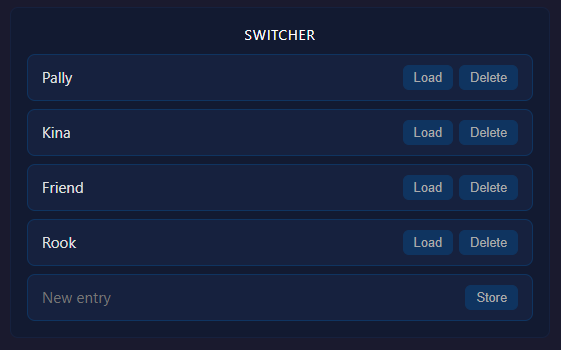
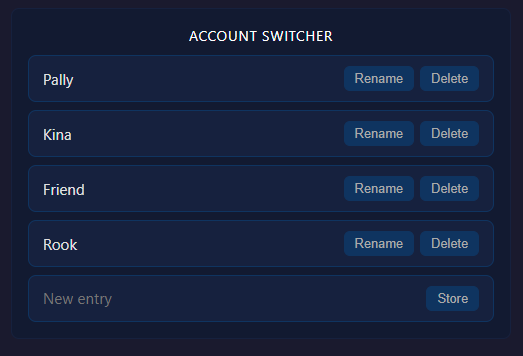
Account Switcher: UX improvements (bigger "load" area, remove confusing rename logic).

diff --git a/server/static/main.js b/server/static/main.js
@@ -163,21 +163,21 @@ const acc = {
             entryEl.setAttribute('data-id', id);
             entryEl.setAttribute('data-name', name);
 
-            const nameEl = document.createElement('input');
+            const nameEl = document.createElement('span');
             entryEl.appendChild(nameEl);
             nameEl.classList.add('acc-name');
-            nameEl.setAttribute('name', 'name');
-            nameEl.setAttribute('readonly', true);
-            nameEl.setAttribute('value', name);
-            nameEl.setAttribute('placeholder', name);
-            nameEl.addEventListener('dblclick', acc.hdlRenameStart);
-            nameEl.addEventListener('focusout', acc.hdlRenameDone);
+            nameEl.textContent = name;
 
-            const loadEl = document.createElement('button');
-            entryEl.appendChild(loadEl);
-            loadEl.textContent = 'Load';
-            loadEl.classList.add('btn', 'acc-btn');
-            loadEl.addEventListener('click', acc.hdlLoad);
+            entryEl.addEventListener('click', (ev) => {
+                if (ev.target.closest('button')) return;
+                acc.hdlLoad(ev);
+            });
+
+            const renameEl = document.createElement('button');
+            entryEl.appendChild(renameEl);
+            renameEl.textContent = 'Rename';
+            renameEl.classList.add('btn', 'acc-btn');
+            renameEl.addEventListener('click', acc.hdlRename);
 
             const deleteEl = document.createElement('button');
             entryEl.appendChild(deleteEl);
@@ -189,7 +189,7 @@ const acc = {
         {
             const entryEl = document.createElement('div');
             accListEl.appendChild(entryEl);
-            entryEl.classList.add('acc-entry');
+            entryEl.classList.add('acc-entry', 'acc-entry-new');
 
             const nameEl = document.createElement('input');
             entryEl.appendChild(nameEl);
@@ -203,31 +203,19 @@ const acc = {
             storeEl.addEventListener('click', acc.hdlStore);
         }
     },
-    hdlRenameStart: async function (ev) {
-        const entryEl = ev.target.closest('.acc-entry');
-        const nameEl = entryEl.querySelector('.acc-name');
-
-        nameEl.removeAttribute('readonly');
-        nameEl.value = '';
-        nameEl.focus({ focusVisible: true });
-        nameEl.select();
-    },
-    hdlRenameDone: async function (ev) {
+    hdlRename: async function (ev) {
         const entryEl = ev.target.closest('.acc-entry');
         const id = entryEl.dataset.id;
         const name = entryEl.dataset.name;
-        const nameEl = entryEl.querySelector('.acc-name');
-        const newName = nameEl.value.trim();
 
-        if (newName == '' || newName == name) {
-            nameEl.value = name;
-            nameEl.setAttribute('readonly', true);
-            return;
-        }
+        const newName = prompt(`Rename "${name}":`, name);
+        if (newName === null) return;
+        const trimmed = newName.trim();
+        if (trimmed === '' || trimmed === name) return;
 
-        const r = await fetch('/api/accounts/rename', { method: 'POST', headers: { 'Content-Type': 'application/json' }, body: JSON.stringify({ id: id, name: newName }) });
+        const r = await fetch('/api/accounts/rename', { method: 'POST', headers: { 'Content-Type': 'application/json' }, body: JSON.stringify({ id: id, name: trimmed }) });
         if (r.ok) {
-            toast.msg(`Renamed "${name}" to "${newName}".`);
+            toast.msg(`Renamed "${name}" to "${trimmed}".`);
             acc.reload();
         } else {
             toast.msg('Error: ' + await r.text());

diff --git a/server/static/index.html b/server/static/index.html
@@ -134,11 +134,12 @@
                         </ul>
                         <h1>Accounts</h1>
                         <ul>
-                            <li><strong>Store</strong> stores the current saved credentials. </li>
-                            <li><strong>Load</strong> restores previously stored credentials.</li>
-                            <li>Double-clicking an entry allows you to rename it.</li>
-                            <li>The game client refreshes the stored credentials on each <u>character</u>
-                                login; keep this in mind to avoid confusion around which credentials are stored/loaded.
+                            <li><strong>Store</strong> stores the account that's currently saved by the game client.</li>
+                            <li>Clicking an entry restores a previously stored account.</li>
+                            <li><strong>Rename</strong> allows you to rename a stored account.</li>
+                            <li><strong>Rename</strong> removes a stored account.</li>
+                            <li>The game client refreshes the stored account on each <u>character</u>
+                                login; keep this in mind to avoid confusion around which account is stored/loaded.
                             </li>
                         </ul>
                         <h1>Timers</h1>

diff --git a/server/static/style.css b/server/static/style.css
@@ -93,6 +93,10 @@ body {
     display: block;
 }
 
+#tab-accounts {
+    max-width: 500px;
+}
+
 .container-column {
     width: 100%;
 }
@@ -192,19 +196,35 @@ body {
     border-color: #e94560;
 }
 
+.acc-entry-new {
+    cursor: default;
+}
+
+.acc-entry-new:hover {
+    border-color: #0f3460;
+    background: #16213e;
+}
+
 .acc-name {
     flex: 1;
+    min-width: 0;
     font-size: .95rem;
+    color: #e0e0e0;
+    padding: 2px 0;
+    white-space: nowrap;
+    overflow: hidden;
+    text-overflow: ellipsis;
+}
+
+.acc-entry-new .acc-name {
     outline: none;
     background: transparent;
-    color: #e0e0e0;
     border: none;
     border-bottom: 1px solid transparent;
-    padding: 2px 0;
     font-family: inherit;
 }
 
-.acc-name:focus {
+.acc-entry-new .acc-name:focus {
     border-bottom-color: #e94560;
 }
 
